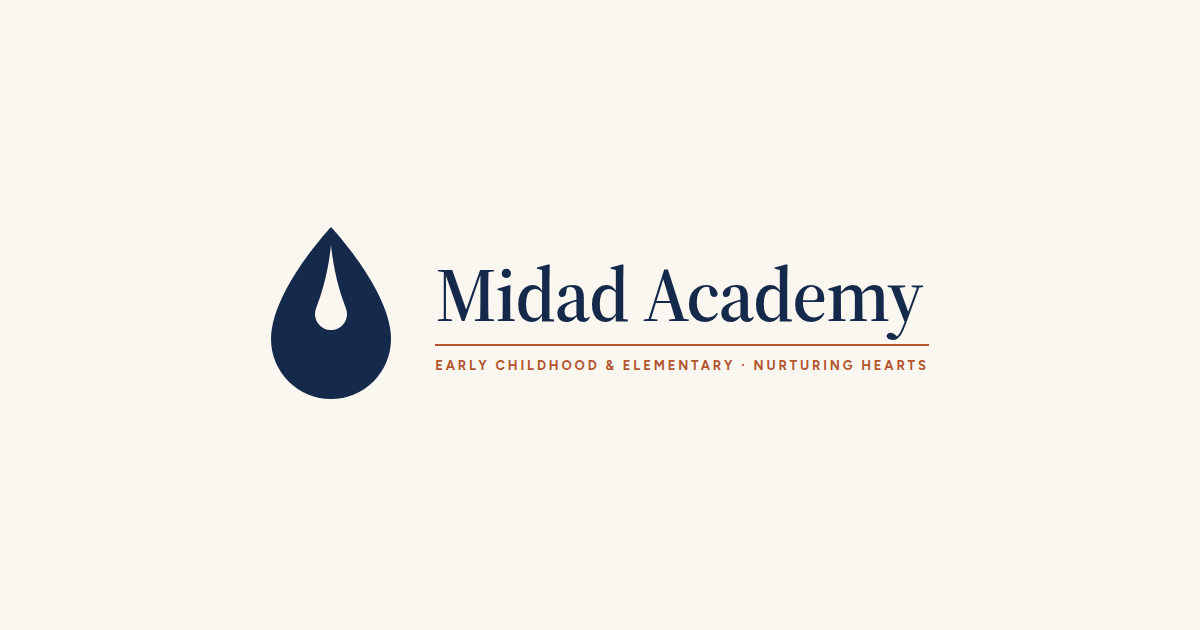
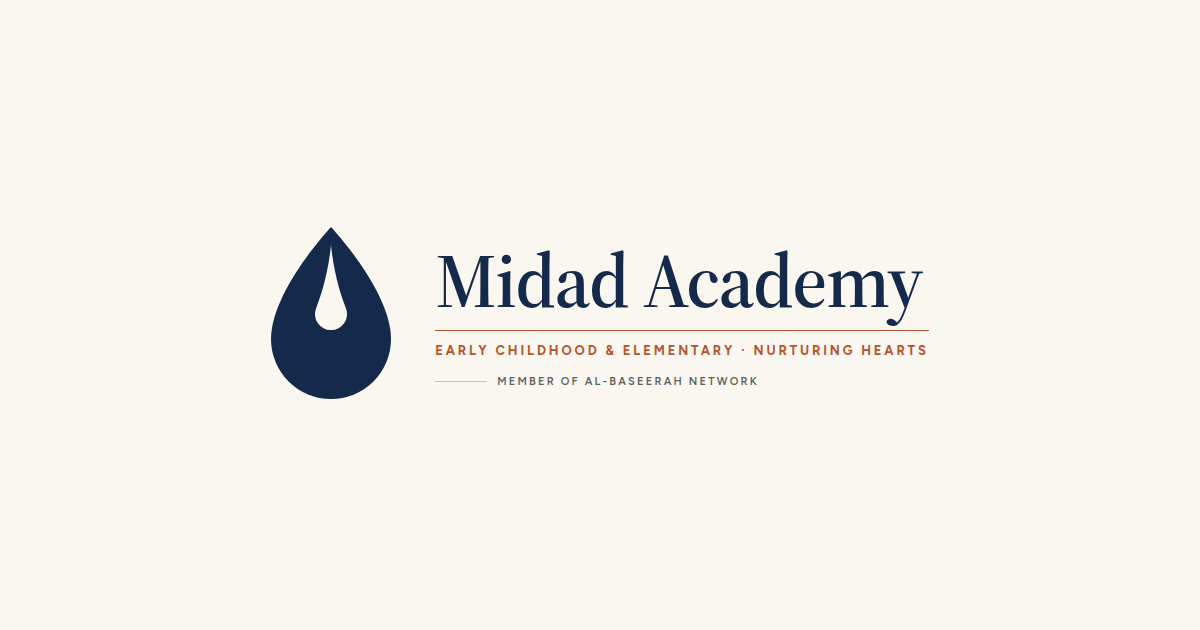
Add the endorsement line to the Midad horizontal lockup
Header and Open Graph image now carry the third line, Member of
Al-Baseerah Network, with its short rule, per the endorsed lockup.

Claude-Session: https://claude.ai/code/session_01RX13JgAQtCLBUQsjivYa3b

Changed region(s): [[0.3392, 0.3921, 0.7708, 0.6333]]

diff --git a/src/app/globals.css b/src/app/globals.css
@@ -19,6 +19,7 @@
   --color-stone: #f2efe8;
   --color-line: rgba(32, 33, 31, 0.12);
   --color-navy: #15294a;
+  --color-neutral-ink: #5b615c;
   --color-on-green-muted: #cdd9cf;
   --color-on-green-kicker: #e4d3b8;
 
@@ -390,6 +391,9 @@
     --lockup-wordmark: 17px;
     --lockup-descriptor: 10px;
     --lockup-rule-gap: 3px;
+    --lockup-endorsement: 9px;
+    --lockup-endorsement-gap: 4px;
+    --lockup-endorsement-rule: 20px;
     display: inline-flex;
     text-decoration: none;
     color: var(--color-navy);
@@ -417,6 +421,21 @@
     color: var(--color-terra);
     white-space: nowrap;
   }
+  .lockup-endorsement {
+    display: flex;
+    align-items: center;
+    gap: 8px;
+    margin-top: var(--lockup-endorsement-gap);
+    font-family: var(--font-sans);
+    font-weight: 600;
+    font-size: var(--lockup-endorsement);
+    line-height: 1.2;
+    letter-spacing: 0.2em;
+    text-transform: uppercase;
+    color: var(--color-neutral-ink);
+    white-space: nowrap;
+  }
+  .lockup-endorsement-rule { display: block; width: var(--lockup-endorsement-rule); height: 1px; background: rgba(32, 33, 31, 0.25); flex: none; }
   .lockup-stacked { flex-direction: column; align-items: center; text-align: center; gap: 0; }
   .lockup-stacked .lockup-mark { margin-bottom: calc(var(--lockup-wordmark) * 0.55); }
   .lockup-stacked .lockup-arabic {
@@ -442,10 +461,12 @@
   /* The header lockup keeps the approved 17px / 10px brand sizes and hides
      the descriptor below 768px, matching the approved header. */
   .header-lockup .lockup-rule,
-  .header-lockup .lockup-descriptor { display: none; }
+  .header-lockup .lockup-descriptor,
+  .header-lockup .lockup-endorsement { display: none; }
   @media (min-width: 768px) {
     .header-lockup .lockup-rule,
     .header-lockup .lockup-descriptor-full { display: block; }
+    .header-lockup .lockup-endorsement { display: flex; }
   }
   /* With the full navigation visible, the short form keeps the row on one line. */
   @media (min-width: 1024px) and (max-width: 1279px) {

diff --git a/src/components/brand/MidadLockup.tsx b/src/components/brand/MidadLockup.tsx
@@ -18,6 +18,7 @@ export const DESCRIPTOR_FULL = ["Early Childhood & Elementary", "Nurturing heart
 export const DESCRIPTOR_SHORT = "Early Childhood & Elementary";
 export const DESCRIPTOR_FULL_LINE = `${DESCRIPTOR_FULL[0]} · ${DESCRIPTOR_FULL[1]}`;
 export const ARABIC_NAME = "مداد";
+export const ENDORSEMENT = "Member of Al-Baseerah Network";
 
 interface LockupProps {
   /** Mark height in CSS pixels. */
@@ -29,11 +30,13 @@ interface LockupProps {
    * pick one per breakpoint (the site header's case).
    */
   descriptor?: "full" | "short" | "none" | "responsive";
+  /** Adds the endorsement line beneath the descriptor, with its short rule. */
+  endorsement?: boolean;
   className?: string;
   style?: React.CSSProperties;
 }
 
-export function HorizontalLockup({ markSize, surface, descriptor = "full", className, style }: LockupProps) {
+export function HorizontalLockup({ markSize, surface, descriptor = "full", endorsement, className, style }: LockupProps) {
   return (
     <span className={cx("lockup lockup-horizontal", className)} style={style}>
       <MidadMark size={markSize} surface={surface} className="lockup-mark" />
@@ -52,6 +55,12 @@ export function HorizontalLockup({ markSize, surface, descriptor = "full", class
                 {descriptor === "short" ? DESCRIPTOR_SHORT : DESCRIPTOR_FULL_LINE}
               </span>
             )}
+            {endorsement ? (
+              <span className="lockup-endorsement">
+                <span className="lockup-endorsement-rule" aria-hidden="true" />
+                {ENDORSEMENT}
+              </span>
+            ) : null}
           </>
         )}
       </span>

diff --git a/src/components/layout/SiteHeader.tsx b/src/components/layout/SiteHeader.tsx
@@ -12,7 +12,7 @@ export function SiteHeader() {
     <header className="site-header">
       <div className="wrap flex items-center justify-between gap-4 py-3">
         <Link href="/" className="flex items-center min-h-11 no-underline" aria-label={`${settings.name} home`}>
-          <HorizontalLockup markSize={40} surface="#fff" descriptor="responsive" className="header-lockup" />
+          <HorizontalLockup markSize={40} surface="#fff" descriptor="responsive" endorsement className="header-lockup" />
         </Link>
         <nav aria-label="Primary" className="hidden lg:block">
           <NavLinks items={settings.navigation} variant="header" />

diff --git a/tests/unit/brand.test.tsx b/tests/unit/brand.test.tsx
@@ -31,9 +31,10 @@ describe("MidadMark", () => {
 
 describe("lockups", () => {
   it("renders the horizontal lockup with wordmark, rule and descriptor", () => {
-    render(<HorizontalLockup markSize={40} surface="#fff" />);
+    render(<HorizontalLockup markSize={40} surface="#fff" endorsement />);
     expect(screen.getByText("Midad Academy")).toBeInTheDocument();
     expect(screen.getByText("Early Childhood & Elementary · Nurturing hearts")).toBeInTheDocument();
+    expect(screen.getByText("Member of Al-Baseerah Network")).toBeInTheDocument();
   });
 
   it("marks the Arabic name with lang and direction in the stacked lockup", () => {
